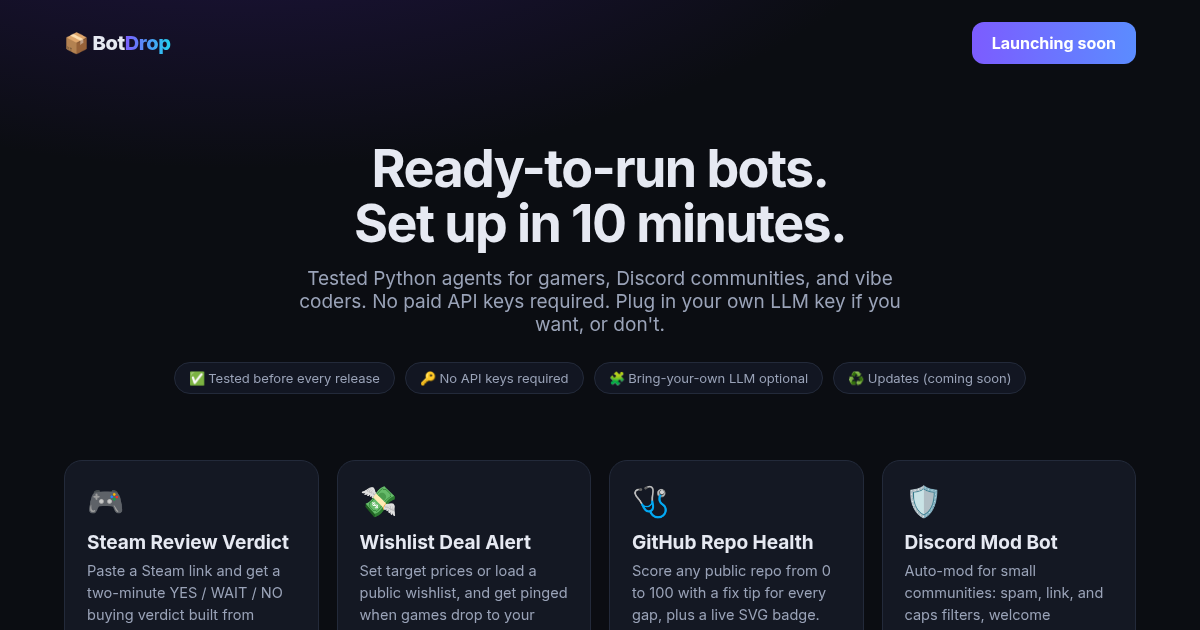
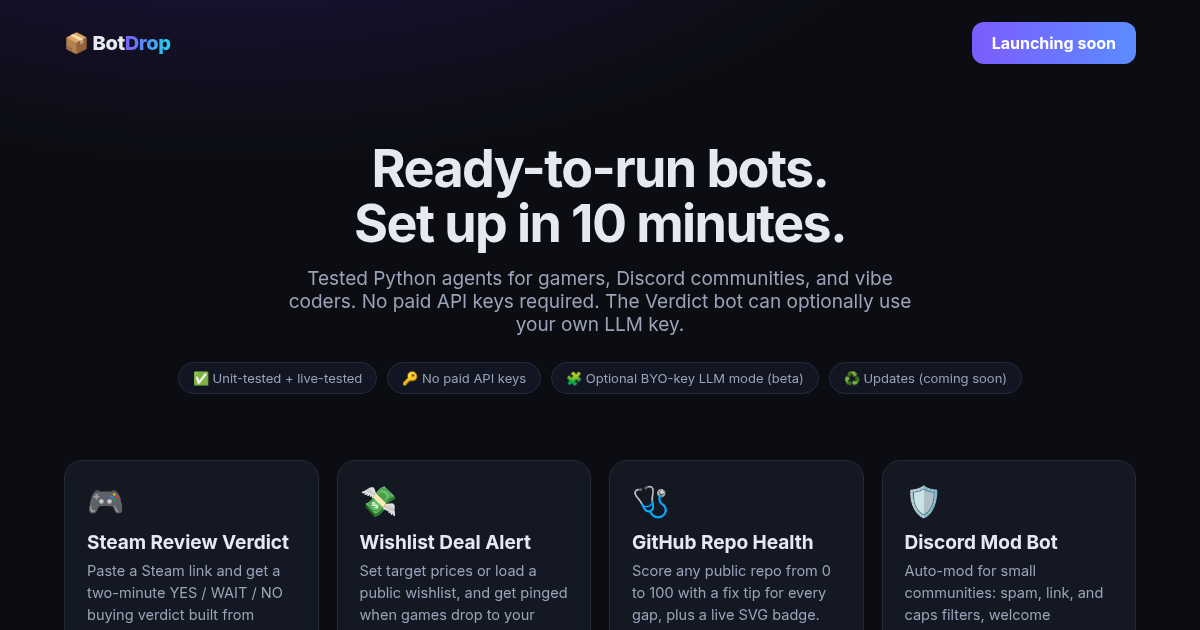
Pre-launch QA: make claims accurate (deploy configs, beta features, no offers in JSON-LD)

Changed region(s): [[0.2467, 0.4524, 0.7708, 0.5429], [0.3083, 0.573, 0.8325, 0.6333], [0.1542, 0.573, 0.3083, 0.6333]]

diff --git a/index.html b/index.html
@@ -1,17 +1,17 @@
 <!doctype html><html lang="en"><head><meta charset="utf-8"><meta name="viewport" content="width=device-width,initial-scale=1">
 <link rel="icon" href="favicon.svg" type="image/svg+xml">
 <title>BotDrop: Ready-to-run bots for gamers & builders</title>
-<meta name="description" content="BotDrop sells ready-to-run Python bots for gamers and builders: Steam review verdicts, deal alerts, free games radar, patch tracker, Discord mod bot and more. No API keys required. Set up in 10 minutes.">
+<meta name="description" content="BotDrop sells ready-to-run Python bots for gamers and builders: Steam review verdicts, deal alerts, free games radar, patch tracker, Discord mod bot and more. No paid API keys required. Set up in about 10 minutes.">
 <!-- botdrop.gg is a planned future custom domain -->
 <link rel="canonical" href="https://botdrop-gg.github.io/">
 <meta name="robots" content="index,follow">
 <meta property="og:type" content="website"><meta property="og:site_name" content="BotDrop">
 <meta property="og:title" content="BotDrop: Ready-to-run bots, set up in 10 minutes">
-<meta property="og:description" content="BotDrop sells ready-to-run Python bots for gamers and builders: Steam review verdicts, deal alerts, free games radar, patch tracker, Discord mod bot and more. No API keys required. Set up in 10 minutes.">
+<meta property="og:description" content="BotDrop sells ready-to-run Python bots for gamers and builders: Steam review verdicts, deal alerts, free games radar, patch tracker, Discord mod bot and more. No paid API keys required. Set up in about 10 minutes.">
 <meta property="og:url" content="https://botdrop-gg.github.io/"><meta property="og:image" content="https://botdrop-gg.github.io/og.png">
 <meta name="twitter:card" content="summary_large_image">
-<meta name="twitter:title" content="BotDrop: Ready-to-run bots"><meta name="twitter:description" content="BotDrop sells ready-to-run Python bots for gamers and builders: Steam review verdicts, deal alerts, free games radar, patch tracker, Discord mod bot and more. No API keys required. Set up in 10 minutes."><meta name="twitter:image" content="https://botdrop-gg.github.io/og.png">
-<script type="application/ld+json">{"@context": "https://schema.org", "@graph": [{"@type": "Organization", "name": "BotDrop", "url": "https://botdrop-gg.github.io/", "sameAs": []}, {"@type": "Product", "name": "BotDrop Steam Review Verdict template", "description": "Paste a Steam link and get a two-minute YES / WAIT / NO buying verdict built from hundreds of real reviews.", "brand": {"@type": "Brand", "name": "BotDrop"}, "category": "Software > Bot templates", "offers": {"@type": "Offer", "price": "19.00", "priceCurrency": "USD", "availability": "https://schema.org/PreOrder", "url": "https://botdrop-gg.github.io/"}}, {"@type": "Product", "name": "BotDrop Wishlist Deal Alert template", "description": "Set target prices or load a public wishlist, and get pinged when games drop to your price.", "brand": {"@type": "Brand", "name": "BotDrop"}, "category": "Software > Bot templates", "offers": {"@type": "Offer", "price": "9.00", "priceCurrency": "USD", "availability": "https://schema.org/PreOrder", "url": "https://botdrop-gg.github.io/"}}, {"@type": "Product", "name": "BotDrop GitHub Repo Health template", "description": "Score any public repo from 0 to 100 with a fix tip for every gap, plus a live SVG badge.", "brand": {"@type": "Brand", "name": "BotDrop"}, "category": "Software > Bot templates", "offers": {"@type": "Offer", "price": "9.00", "priceCurrency": "USD", "availability": "https://schema.org/PreOrder", "url": "https://botdrop-gg.github.io/"}}, {"@type": "Product", "name": "BotDrop Discord Mod Bot template", "description": "Auto-mod for small communities: spam, link, and caps filters, welcome messages, FAQ, and slash commands.", "brand": {"@type": "Brand", "name": "BotDrop"}, "category": "Software > Bot templates", "offers": {"@type": "Offer", "price": "15.00", "priceCurrency": "USD", "availability": "https://schema.org/PreOrder", "url": "https://botdrop-gg.github.io/"}}, {"@type": "Product", "name": "BotDrop Free Games Radar template", "description": "Every game that's free to keep right now on Epic, Steam, and GOG, posted to your Discord.", "brand": {"@type": "Brand", "name": "BotDrop"}, "category": "Software > Bot templates", "offers": {"@type": "Offer", "price": "9.00", "priceCurrency": "USD", "availability": "https://schema.org/PreOrder", "url": "https://botdrop-gg.github.io/"}}, {"@type": "Product", "name": "BotDrop Player Count Tracker template", "description": "Is that multiplayer game alive or dying? Tracks Steam players over time and gives a verdict.", "brand": {"@type": "Brand", "name": "BotDrop"}, "category": "Software > Bot templates", "offers": {"@type": "Offer", "price": "12.00", "priceCurrency": "USD", "availability": "https://schema.org/PreOrder", "url": "https://botdrop-gg.github.io/"}}, {"@type": "Product", "name": "BotDrop Patch Tracker template", "description": "Hear about big updates and patch notes for your games without the noise.", "brand": {"@type": "Brand", "name": "BotDrop"}, "category": "Software > Bot templates", "offers": {"@type": "Offer", "price": "12.00", "priceCurrency": "USD", "availability": "https://schema.org/PreOrder", "url": "https://botdrop-gg.github.io/"}}, {"@type": "Product", "name": "BotDrop What to Play Tonight template", "description": "3 games you own but barely played that players love. Beat the backlog.", "brand": {"@type": "Brand", "name": "BotDrop"}, "category": "Software > Bot templates", "offers": {"@type": "Offer", "price": "9.00", "priceCurrency": "USD", "availability": "https://schema.org/PreOrder", "url": "https://botdrop-gg.github.io/"}}, {"@type": "Product", "name": "BotDrop Bundle: all 8 templates", "description": "All eight ready-to-run bot templates plus v2.x updates.", "brand": {"@type": "Brand", "name": "BotDrop"}, "offers": {"@type": "Offer", "price": "49.00", "priceCurrency": "USD", "availability": "https://schema.org/PreOrder", "url": "https://botdrop-gg.github.io/"}}]}</script>
+<meta name="twitter:title" content="BotDrop: Ready-to-run bots"><meta name="twitter:description" content="BotDrop sells ready-to-run Python bots for gamers and builders: Steam review verdicts, deal alerts, free games radar, patch tracker, Discord mod bot and more. No paid API keys required. Set up in about 10 minutes."><meta name="twitter:image" content="https://botdrop-gg.github.io/og.png">
+<script type="application/ld+json">{"@context": "https://schema.org", "@graph": [{"@type": "Organization", "name": "BotDrop", "url": "https://botdrop-gg.github.io/", "sameAs": []}, {"@type": "Product", "name": "BotDrop Steam Review Verdict template", "description": "Paste a Steam link and get a two-minute YES / WAIT / NO buying verdict built from hundreds of real reviews. Coming soon; not yet on sale.", "brand": {"@type": "Brand", "name": "BotDrop"}, "category": "Software > Bot templates"}, {"@type": "Product", "name": "BotDrop Wishlist Deal Alert template", "description": "Set target prices or load a public wishlist, and get pinged when games drop to your price. Coming soon; not yet on sale.", "brand": {"@type": "Brand", "name": "BotDrop"}, "category": "Software > Bot templates"}, {"@type": "Product", "name": "BotDrop GitHub Repo Health template", "description": "Score any public repo from 0 to 100 with a fix tip for every gap, plus a live SVG badge. Coming soon; not yet on sale.", "brand": {"@type": "Brand", "name": "BotDrop"}, "category": "Software > Bot templates"}, {"@type": "Product", "name": "BotDrop Discord Mod Bot template", "description": "Auto-mod for small communities: spam, link, and caps filters, welcome messages, FAQ, and slash commands. Needs a free bot token. Coming soon; not yet on sale.", "brand": {"@type": "Brand", "name": "BotDrop"}, "category": "Software > Bot templates"}, {"@type": "Product", "name": "BotDrop Free Games Radar template", "description": "Games that are free to keep right now on Epic and Steam (GOG checked too), posted to your Discord. Coming soon; not yet on sale.", "brand": {"@type": "Brand", "name": "BotDrop"}, "category": "Software > Bot templates"}, {"@type": "Product", "name": "BotDrop Player Count Tracker template", "description": "Is that multiplayer game alive or dying? Tracks Steam players over time and gives a verdict. Coming soon; not yet on sale.", "brand": {"@type": "Brand", "name": "BotDrop"}, "category": "Software > Bot templates"}, {"@type": "Product", "name": "BotDrop Patch Tracker template", "description": "Hear about big updates and patch notes for your games without the noise. Coming soon; not yet on sale.", "brand": {"@type": "Brand", "name": "BotDrop"}, "category": "Software > Bot templates"}, {"@type": "Product", "name": "BotDrop What to Play Tonight template", "description": "3 games you own but barely played that players love. Beat the backlog. Coming soon; not yet on sale.", "brand": {"@type": "Brand", "name": "BotDrop"}, "category": "Software > Bot templates"}, {"@type": "Product", "name": "BotDrop Bundle: all 8 templates", "description": "All eight ready-to-run bot templates plus v2.x updates. Coming soon; not yet on sale.", "brand": {"@type": "Brand", "name": "BotDrop"}}]}</script>
 <style>
 :root{--bg:#0b0d12;--card:#141823;--line:#232a3a;--txt:#e6e9f2;--mut:#9aa3b8;--acc:#7c5cff;--acc2:#22d3ee}
 *{box-sizing:border-box}body{margin:0;font-family:Inter,system-ui,-apple-system,Segoe UI,sans-serif;background:radial-gradient(1200px 600px at 20% -10%,#24164d 0,transparent 60%),var(--bg);color:var(--txt)}
@@ -33,21 +33,21 @@ footer{color:var(--mut);font-size:13px;padding:24px 0 40px;border-top:1px solid 
 @media(max-width:1000px){.grid{grid-template-columns:repeat(2,1fr)}}@media(max-width:560px){.grid{grid-template-columns:1fr}.hero h1{font-size:36px}}.soon{background:#2a2f40;color:#9aa3b8;cursor:default;font-weight:600}</style></head><body><div class="wrap">
 <nav><div class="logo">📦 Bot<span>Drop</span></div><a class="btn" href="#waitlist">Launching soon</a></nav>
 <section class="hero"><h1>Ready-to-run bots.<br>Set up in 10 minutes.</h1>
-<p>Tested Python agents for gamers, Discord communities, and vibe coders. No paid API keys required. Plug in your own LLM key if you want, or don't.</p>
-<div class="pills"><span class="pill">✅ Tested before every release</span><span class="pill">🔑 No API keys required</span><span class="pill">🧩 Bring-your-own LLM optional</span><span class="pill">♻ Updates (coming soon)</span></div></section>
+<p>Tested Python agents for gamers, Discord communities, and vibe coders. No paid API keys required. The Verdict bot can optionally use your own LLM key.</p>
+<div class="pills"><span class="pill">✅ Unit-tested + live-tested</span><span class="pill">🔑 No paid API keys</span><span class="pill">🧩 Optional BYO-key LLM mode (beta)</span><span class="pill">♻ Updates (coming soon)</span></div></section>
 <section class="grid">
 <div class="card"><div class="ico">🎮</div><h3>Steam Review Verdict</h3><p>Paste a Steam link and get a two-minute YES / WAIT / NO buying verdict built from hundreds of real reviews.</p><div class="for">For: gamers, curators, creators</div><ul><li>Playtime-weighted scoring</li><li>Recent vs. lifetime trend</li><li>CLI + web app + JSON API</li></ul><div class="buy"><span class="price">$19</span><span class="btn soon" title="Not on sale yet">Coming soon</span></div></div>
 <div class="card"><div class="ico">💸</div><h3>Wishlist Deal Alert</h3><p>Set target prices or load a public wishlist, and get pinged when games drop to your price.</p><div class="for">For: deal hunters, Discord servers</div><ul><li>Target price or % discount</li><li>Any Steam region</li><li>Discord webhook alerts</li></ul><div class="buy"><span class="price">$9</span><span class="btn soon" title="Not on sale yet">Coming soon</span></div></div>
 <div class="card"><div class="ico">🩺</div><h3>GitHub Repo Health</h3><p>Score any public repo from 0 to 100 with a fix tip for every gap, plus a live SVG badge.</p><div class="for">For: vibe coders, maintainers</div><ul><li>A–F grade + report</li><li>JSON API + README badge</li><li>No token needed</li></ul><div class="buy"><span class="price">$9</span><span class="btn soon" title="Not on sale yet">Coming soon</span></div></div>
-<div class="card"><div class="ico">🛡</div><h3>Discord Mod Bot</h3><p>Auto-mod for small communities: spam, link, and caps filters, welcome messages, FAQ, and slash commands.</p><div class="for">For: gaming & dev Discord owners</div><ul><li>Strikes → auto-timeout</li><li>FAQ from YAML</li><li>/warn /timeout /purge</li></ul><div class="buy"><span class="price">$15</span><span class="btn soon" title="Not on sale yet">Coming soon</span></div></div>
-<div class="card"><div class="ico">🎁</div><h3>Free Games Radar</h3><p>Every game that's free to keep right now on Epic, Steam, and GOG, posted to your Discord.</p><div class="for">For: freebie hunters, communities</div><ul><li>Epic upcoming freebies</li><li>Deduped alerts</li><li>Runs every 6h</li></ul><div class="buy"><span class="price">$9</span><span class="btn soon" title="Not on sale yet">Coming soon</span></div></div>
-<div class="card"><div class="ico">📈</div><h3>Player Count Tracker</h3><p>Is that multiplayer game alive or dying? Tracks Steam players over time and gives a verdict.</p><div class="for">For: multiplayer buyers, analysts</div><ul><li>SQLite history</li><li>ALIVE / DYING / GROWING</li><li>Dying alerts to Discord</li></ul><div class="buy"><span class="price">$12</span><span class="btn soon" title="Not on sale yet">Coming soon</span></div></div>
+<div class="card"><div class="ico">🛡</div><h3>Discord Mod Bot</h3><p>Auto-mod for small communities: spam, link, and caps filters, welcome messages, FAQ, and slash commands. Needs a free bot token.</p><div class="for">For: gaming & dev Discord owners</div><ul><li>Strikes → auto-timeout</li><li>FAQ from YAML</li><li>/warn /timeout /purge · unit-tested filters</li></ul><div class="buy"><span class="price">$15</span><span class="btn soon" title="Not on sale yet">Coming soon</span></div></div>
+<div class="card"><div class="ico">🎁</div><h3>Free Games Radar</h3><p>Games that are free to keep right now on Epic and Steam (GOG checked too), posted to your Discord.</p><div class="for">For: freebie hunters, communities</div><ul><li>Epic upcoming freebies</li><li>Deduped alerts</li><li>Checks every 6h (configurable)</li></ul><div class="buy"><span class="price">$9</span><span class="btn soon" title="Not on sale yet">Coming soon</span></div></div>
+<div class="card"><div class="ico">📈</div><h3>Player Count Tracker</h3><p>Is that multiplayer game alive or dying? Tracks Steam players over time and gives a verdict.</p><div class="for">For: multiplayer buyers, analysts</div><ul><li>SQLite history</li><li>ALIVE / DYING / GROWING</li><li>One alert when a game turns DYING</li></ul><div class="buy"><span class="price">$12</span><span class="btn soon" title="Not on sale yet">Coming soon</span></div></div>
 <div class="card"><div class="ico">🔧</div><h3>Patch Tracker</h3><p>Hear about big updates and patch notes for your games without the noise.</p><div class="for">For: players, Discord servers, creators</div><ul><li>MAJOR vs. patch detection</li><li>Official posts only</li><li>Never repeats an alert</li></ul><div class="buy"><span class="price">$12</span><span class="btn soon" title="Not on sale yet">Coming soon</span></div></div>
-<div class="card"><div class="ico">🌙</div><h3>What to Play Tonight</h3><p>3 games you own but barely played that players love. Beat the backlog.</p><div class="for">For: backlog-havers</div><ul><li>Wilson-score ranking</li><li>Steam library or manual list</li><li>Daily picks to Discord</li></ul><div class="buy"><span class="price">$9</span><span class="btn soon" title="Not on sale yet">Coming soon</span></div></div>
+<div class="card"><div class="ico">🌙</div><h3>What to Play Tonight</h3><p>3 games you own but barely played that players love. Beat the backlog.</p><div class="for">For: backlog-havers</div><ul><li>Wilson-score ranking</li><li>Manual list, or library import (free Steam key, beta)</li><li>Daily picks to Discord</li></ul><div class="buy"><span class="price">$9</span><span class="btn soon" title="Not on sale yet">Coming soon</span></div></div>
 </section>
 <section class="bundle"><div><h2>🎁 The BotDrop Bundle: all 8 templates</h2><p>Everything above, in one download. Use it in unlimited personal and commercial projects.</p></div>
 <div style="display:flex;align-items:center;gap:16px"><span><span class="strike">$94</span><span class="price">$49</span></span><span class="btn soon">Coming soon</span></div></section>
-<section class="feat"><div><b>10-minute setup</b>Step-by-step README, .env.example, and config file in every template.</div><div><b>Actually tested</b>Unit tests plus live runs against real Steam, Epic, GOG & GitHub data.</div><div><b>One-click deploy</b>Dockerfile, Render blueprint & Railway config in every template.</div><div><b>Yours to customize</b>Clean, readable Python. Fork it, rebrand it, ship it.</div><div><b>Kept up to date (coming soon)</b>We're working on automated weekly re-checks against API changes.</div></section>
+<section class="feat"><div><b>~10-minute setup</b>Step-by-step README, .env.example, and config file in every template.</div><div><b>Actually tested</b>Unit tests plus live runs against real Steam, Epic & GitHub data.</div><div><b>Deploy configs included</b>Every template has a Dockerfile (built and run in QA) plus Render and Railway configs.</div><div><b>Yours to customize</b>Clean, readable Python. Customize it and run it for yourself or your clients.</div><div><b>Kept up to date (coming soon)</b>We're working on automated weekly re-checks against API changes.</div></section>
 <section id="waitlist" class="bundle" style="justify-content:center;text-align:center"><div><h2>🚀 Coming soon</h2><p>BotDrop templates aren't on sale yet. Check back here soon.</p></div></section>
 <footer>© 2026 BotDrop · botdrop.gg (coming soon) · Simple commercial license: use anywhere, don't resell the source · Not affiliated with Valve, GitHub, or Discord.</footer>
 </div></body></html>
